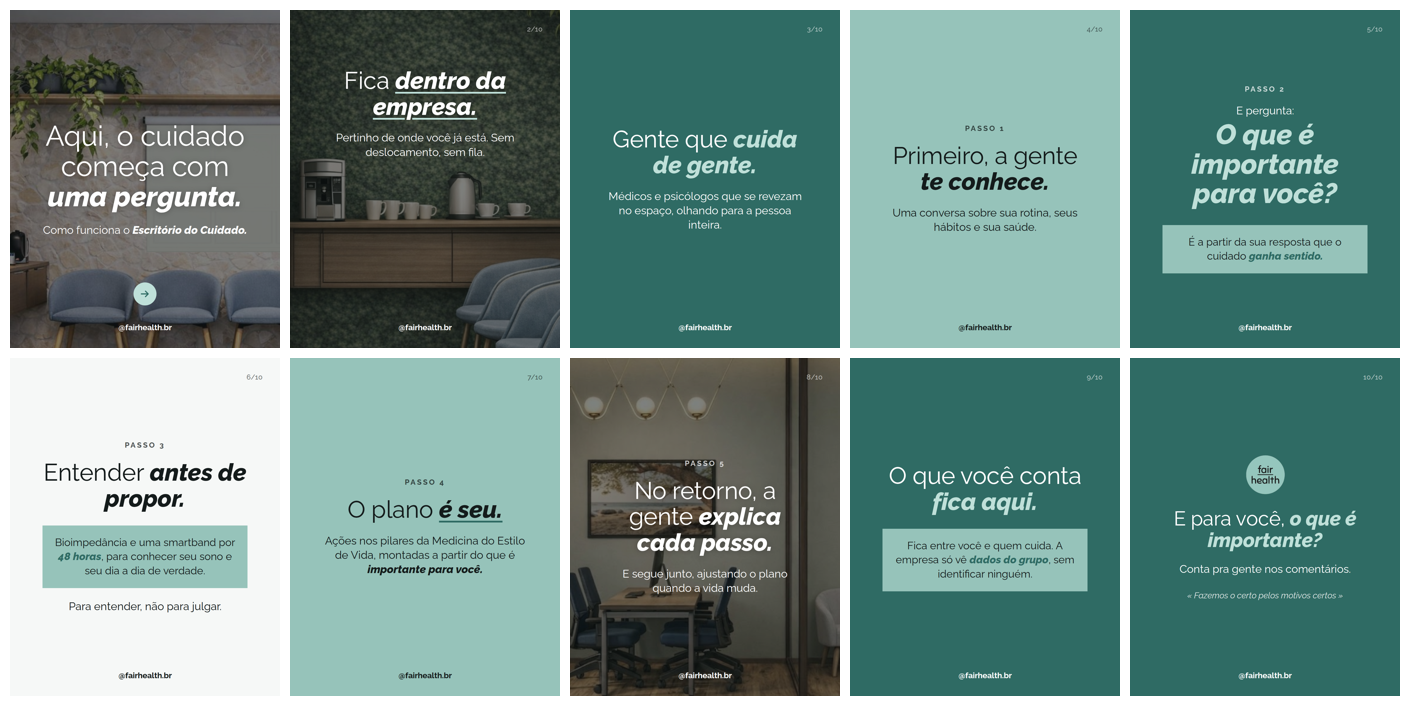
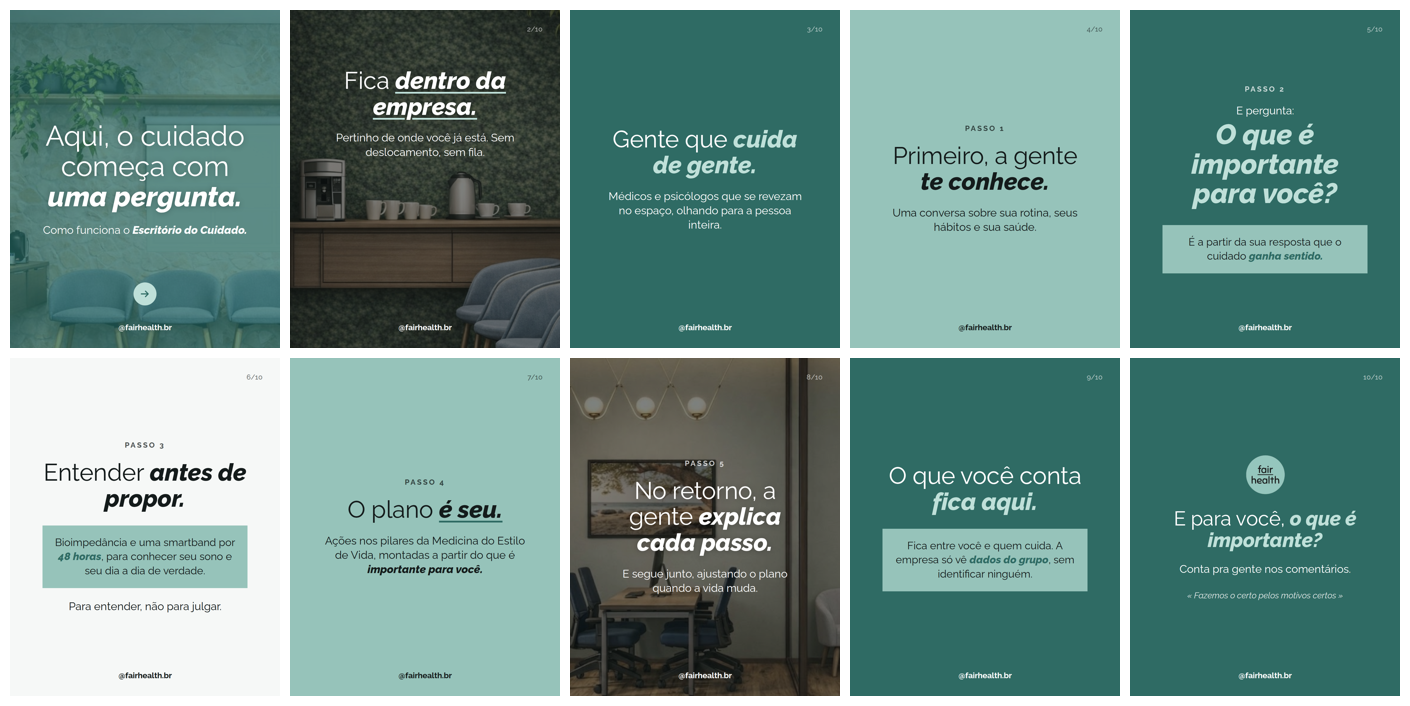
Welcome carousel: turquoise overlay on the cover photo
Claude-Session: https://claude.ai/code/session_011JWhGAkUjJPXHMtv46EUoM

Changed region(s): [[0.0, 0.0, 0.2184, 0.4986]]

diff --git a/instagram/canva/carrossel-acolhimento-capa.html b/instagram/canva/carrossel-acolhimento-capa.html
@@ -54,74 +54,10 @@ b,em{font-weight:800;font-style:italic}
 .etapa{font-size:30px;font-weight:700;letter-spacing:6px;opacity:.75;margin-bottom:40px}
 .lista .li{padding:22px 0;border-bottom:3px solid color-mix(in srgb,var(--acento) 35%,transparent)}.lista .li:last-child{border:0}.lista .li span{font-weight:800;font-style:italic;color:var(--acento);margin-right:18px}.flecha{border:0!important}.flecha svg{width:110px!important;height:110px!important}
 </style></head><body>
-
 <section data-document-role="page" class="slide foto-espaco turquesa" id="a-01" style="background-image:url(https://raw.githubusercontent.com/nina-rebello/Comunica-o-FH/claude/eager-bell-tblhnh/instagram/marca/espaco/recepcao-parede-pedra.jpg);background-position:30% 20%;background-size:auto 118%">
   <h1 class="g">Aqui, o cuidado começa com <b>uma pergunta.</b></h1>
   <p class="sub">Como funciona o <span class="marca">Escritório do Cuidado.</span></p>
   <div class="seta-cheia"><svg viewBox="0 0 24 24" fill="none" stroke="#2F6B64" stroke-width="2.4" stroke-linecap="round" stroke-linejoin="round"><circle cx="12" cy="12" r="11.2" stroke-width=".9"/><path transform="translate(6 6) scale(.5)" d="M4 12h15M13 6l6 6-6 6"/></svg></div>
-  <div class="handle">@fairhealth.br</div>
-</section>
-
-<section data-document-role="page" class="slide foto-espaco" id="a-02" style="background-image:url(https://raw.githubusercontent.com/nina-rebello/Comunica-o-FH/claude/eager-bell-tblhnh/instagram/marca/espaco/copa-parede-verde.jpg);background-position:42% center;justify-content:flex-start;padding-top:230px"><div class="pag">2/10</div>
-  <h1>Fica <b class="u">dentro da empresa.</b></h1>
-  <p class="sub">Pertinho de onde você já está. Sem deslocamento, sem fila.</p>
-  <div class="handle">@fairhealth.br</div>
-</section>
-
-<section data-document-role="page" class="slide escuro" id="a-03"><div class="pag">3/10</div>
-  <h1>Gente que <b class="cor">cuida de gente.</b></h1>
-  <p class="sub">Médicos e psicólogos que se revezam no espaço, olhando para a pessoa inteira.</p>
-  <div class="handle">@fairhealth.br</div>
-</section>
-
-<section data-document-role="page" class="slide agua" id="a-04"><div class="pag">4/10</div>
-  <div class="etapa">PASSO 1</div>
-  <h1>Primeiro, a gente <b>te conhece.</b></h1>
-  <p class="sub">Uma conversa sobre sua rotina, seus hábitos e sua saúde.</p>
-  <div class="handle">@fairhealth.br</div>
-</section>
-
-<section data-document-role="page" class="slide escuro" id="a-05"><div class="pag">5/10</div>
-  <div class="etapa">PASSO 2</div>
-  <p class="sub" style="margin:0">E pergunta:</p>
-  <h1 class="pergunta-grande"><b class="cor">O que é importante para você?</b></h1>
-  <div class="caixa"><p>É a partir da sua resposta que o cuidado <b>ganha sentido.</b></p></div>
-  <div class="handle">@fairhealth.br</div>
-</section>
-
-<section data-document-role="page" class="slide off" id="a-06"><div class="pag">6/10</div>
-  <div class="etapa">PASSO 3</div>
-  <h1>Entender <b>antes de propor.</b></h1>
-  <div class="caixa"><p>Bioimpedância e uma smartband por <b>48 horas</b>, para conhecer seu sono e seu dia a dia de verdade.</p></div>
-  <p class="sub">Para entender, não para julgar.</p>
-  <div class="handle">@fairhealth.br</div>
-</section>
-
-<section data-document-role="page" class="slide agua" id="a-07"><div class="pag">7/10</div>
-  <div class="etapa">PASSO 4</div>
-  <h1>O plano <b class="u">é seu.</b></h1>
-  <p class="sub">Ações nos pilares da Medicina do Estilo de Vida, montadas a partir do que é <b>importante para você.</b></p>
-  <div class="handle">@fairhealth.br</div>
-</section>
-
-<section data-document-role="page" class="slide foto-espaco" id="a-08" style="background-image:url(https://raw.githubusercontent.com/nina-rebello/Comunica-o-FH/claude/eager-bell-tblhnh/instagram/marca/espaco/sala-atendimento-e-espera.jpg);background-position:22% center"><div class="pag">8/10</div>
-  <div class="etapa">PASSO 5</div>
-  <h1>No retorno, a gente <b>explica cada passo.</b></h1>
-  <p class="sub">E segue junto, ajustando o plano quando a vida muda.</p>
-  <div class="handle">@fairhealth.br</div>
-</section>
-
-<section data-document-role="page" class="slide escuro" id="a-09"><div class="pag">9/10</div>
-  <h1>O que você conta <b class="cor">fica aqui.</b></h1>
-  <div class="caixa"><p>Fica entre você e quem cuida. A empresa só vê <b>dados do grupo</b>, sem identificar ninguém.</p></div>
-  <div class="handle">@fairhealth.br</div>
-</section>
-
-<section data-document-role="page" class="slide escuro" id="a-10"><div class="pag">10/10</div>
-  <img class="logo" src="https://raw.githubusercontent.com/nina-rebello/Comunica-o-FH/claude/eager-bell-tblhnh/instagram/marca/logo-circulo.png" alt="">
-  <h1 class="m">E para você, <b class="cor">o que é importante?</b></h1>
-  <p class="sub">Conta pra gente nos comentários.</p>
-  <p class="slogan">« Fazemos o certo pelos motivos certos »</p>
   <div class="handle">@fairhealth.br</div>
 </section>
 </body></html>

diff --git a/instagram/posts/acolhimento/slides.html b/instagram/posts/acolhimento/slides.html
@@ -6,6 +6,8 @@
 .foto-espaco{color:#fff;background-size:cover;--acento:var(--menta);--caixa:var(--agua)}
 .foto-espaco::before{content:"";position:absolute;inset:0;background:rgba(20,27,27,.55)}
 .foto-espaco.claro::before{background:rgba(20,27,27,.45)}
+/* capa: véu no verde-água/turquesa da logo */
+.foto-espaco.turquesa::before{background:rgba(38,104,99,.72)}
 .foto-espaco h1{text-shadow:0 2px 24px rgba(0,0,0,.25)}
 .marca{font-weight:800;font-style:italic}
 .kicker{font-size:28px;font-weight:700;letter-spacing:8px;margin-bottom:56px;color:var(--acento)}
@@ -16,7 +18,7 @@
 .etapa{font-size:30px;font-weight:700;letter-spacing:6px;opacity:.75;margin-bottom:40px}
 </style></head><body>
 
-<section class="slide foto-espaco" id="a-01" style="background-image:url(../../marca/espaco/recepcao-parede-pedra.jpg);background-position:30% 20%;background-size:auto 118%">
+<section class="slide foto-espaco turquesa" id="a-01" style="background-image:url(../../marca/espaco/recepcao-parede-pedra.jpg);background-position:30% 20%;background-size:auto 118%">
   <h1 class="g">Aqui, o cuidado começa com <b>uma pergunta.</b></h1>
   <p class="sub">Como funciona o <span class="marca">Escritório do Cuidado.</span></p>
   <div class="seta-cheia"><svg viewBox="0 0 24 24" fill="none" stroke="#2F6B64" stroke-width="2.4" stroke-linecap="round" stroke-linejoin="round"><path d="M4 12h15M13 6l6 6-6 6"/></svg></div>
